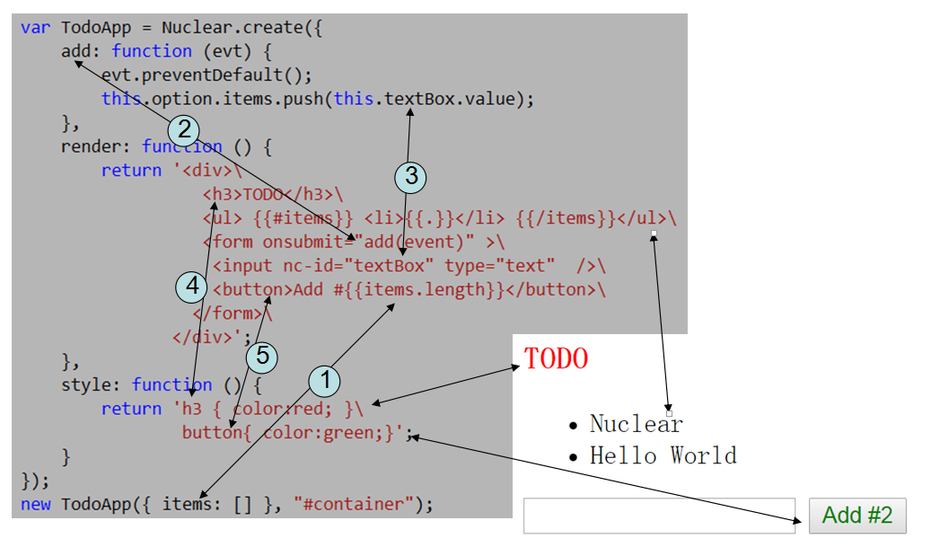
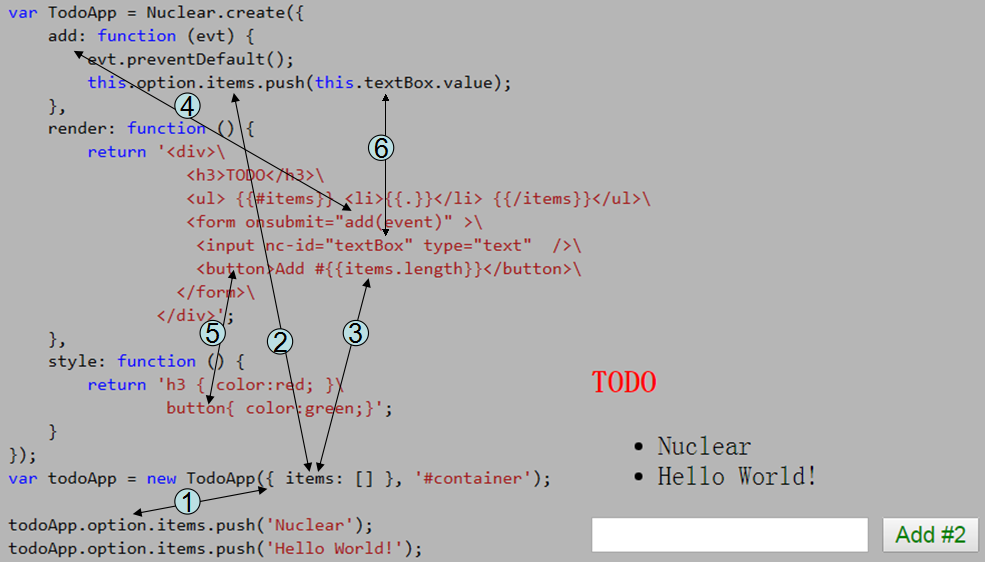
update guide.png

diff --git a/index.html b/index.html
@@ -7,6 +7,12 @@
     <link href="css/stylesheet.css" rel="stylesheet" />
     <link href="css/code.css" rel="stylesheet" />
     <link href="css/demo.css" rel="stylesheet" />
+    <style>
+        #examples p{
+            max-width:920px;
+            font-size:15px;
+        }
+    </style>
 </head>
 <body>
    
@@ -104,7 +110,7 @@
                         <div>
                             <img src="img/guide.png" alt="" />
                         </div>
-                        <p>1：一个组件会依赖option，上面的option是<code>{items:[]}</code>；模板里可以直接访问到option的属性，代码里可以通过this.option访问。option的变更会自动更新dom<br />2：add方法不用担心会调用全局的，Nuclear会帮你处理好，add就是调用自身的add。<br />3：可以通过标记nc-id的方式快速访问dom元素<br />4：不用担心h3会污染全局，h3就是你想要的h3<br />5：不用担心button会污染全局，button就是你想要的button<br/>其他：this.option的变更会自动更新dom。如上面的<code>this.option.items.push(this.textBox.value)</code>会自动更新dom。
+                        <p>1：一个组件会依赖option，上面的option是<code>{items:[]}</code>；<br />2：代码里可以通过this.option访问的属性。option的变更会自动更新dom<br />3：模板里可以直接访问到option的属性<br />4：add方法不用担心会调用全局的，Nuclear会帮你处理好，add就是调用自身的add。<br />5：button和h3的样式都是局部的，不污染其他组件<br />6：可以通过标记nc-id的方式快速访问dom元素
                            
                         </p>
                     </div>
